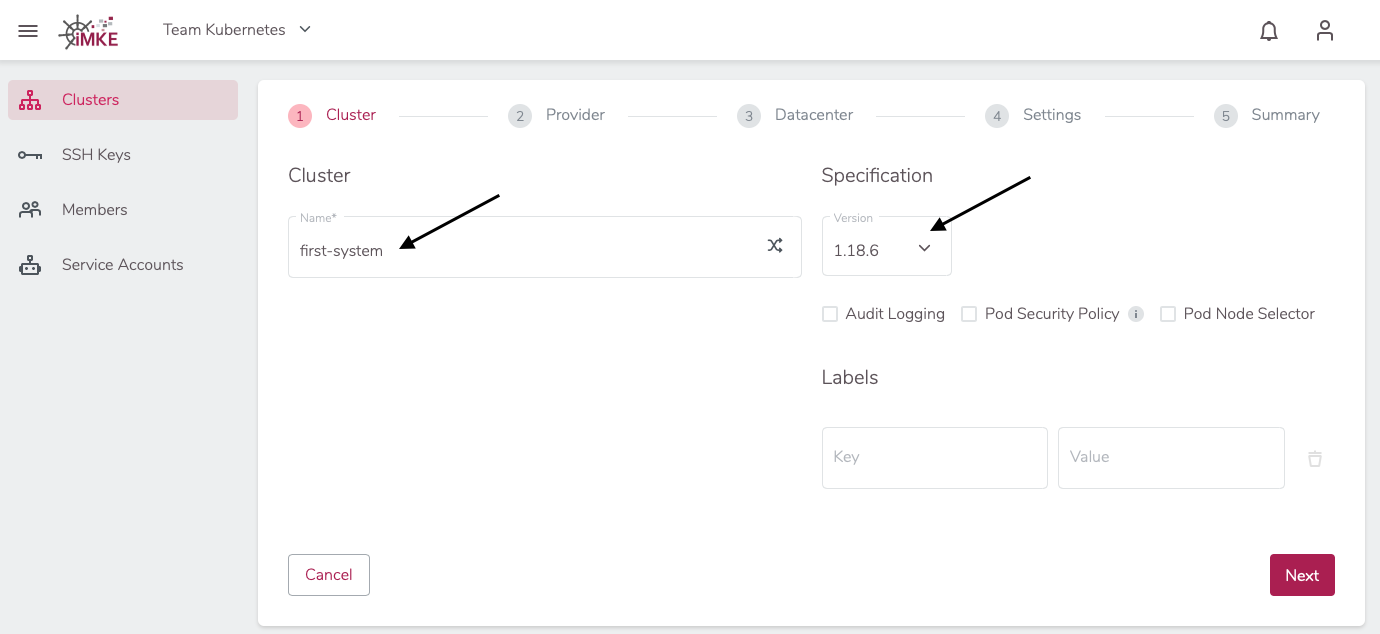
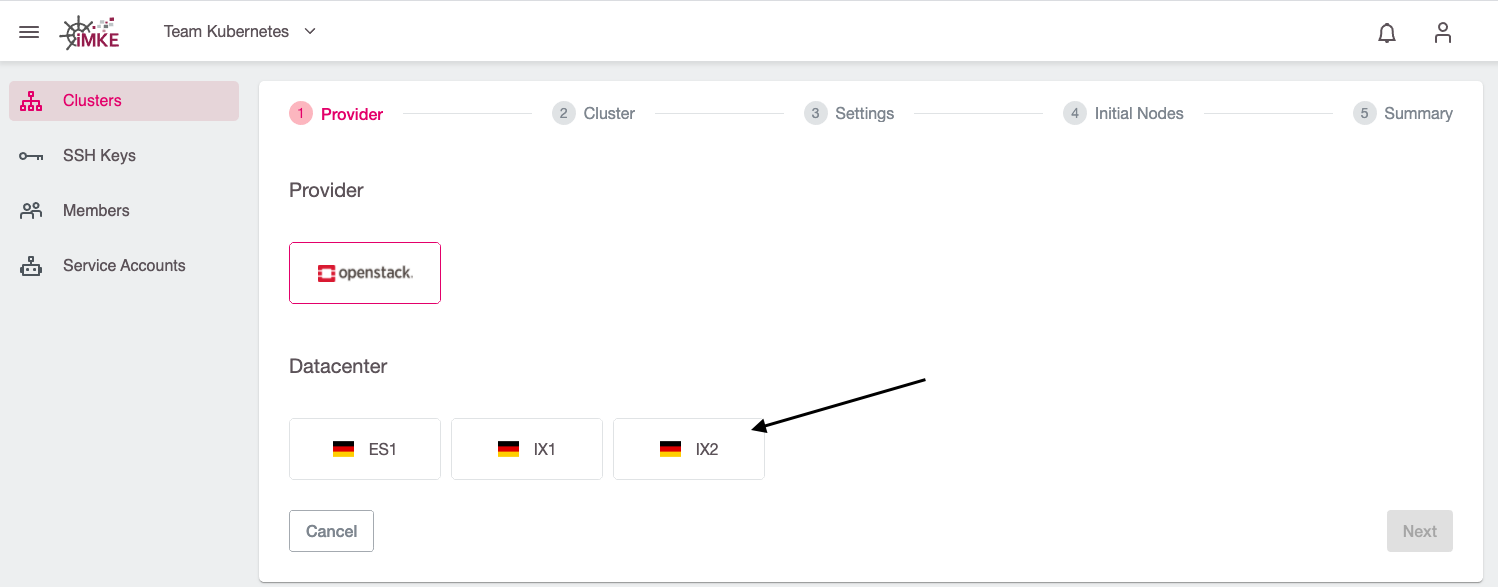
Update cluster-creation documentation (#38)
* Update cluster-creation documentation

* Update docs/_imke/clusterlifecycle/creatingacluster/index.de.md

* Update docs/_imke/clusterlifecycle/creatingacluster/index.de.md

* Apply suggestions from code review

diff --git a/docs/_imke/clusterlifecycle/creatingacluster/index.de.md b/docs/_imke/clusterlifecycle/creatingacluster/index.de.md
@@ -11,68 +11,73 @@ Doch bevor wir dies tun können, benötigen wir ein Projekt.
 
 Wenn Sie noch kein Projekt erstellt haben, [erstellen Sie bitte zuerst ein Projekt](/imke/managingprojects/creatingaproject).
 
-Um einen Cluster anzulegen, klicken wir oben rechts auf `Add Cluster`.
+Um einen Cluster anzulegen, klicken wir im gewünschten Projekt oben rechts auf `Add Cluster`.
 ![Add Cluster](projectview_addcluster.png)
 
 Jetzt öffnet sich die erste Seite für den Prozess, einen Cluster anzulegen.
-Im Beispiel nennen wir unseren Cluster `first-system` und wählen die Kubernetes
-Version 1.18.6 aus:
+Dazu wählen wir den Provider `openstack` und eine der drei Verfügbarkeitszonen aus, in diesem Beispiel
+nehmen wir `IX2`:
 ![Add Cluster Step 1](add_step1.png)
 
-Wir klicken dann auf `Next` und im nächsten Schritt wählen wir den Provider
-`openstack` und eine der drei Verfügbarkeitszonen aus, in diesem Beispiel
-nehmen wir `IX1`:
-![Add Cluster Step 2.1](add_step2_1.png) ![Add Cluster Step 2.2](add_step2_2.png)
+Im nächsten Schritt konfigurieren wir die Cluster-Details. Im unserem Beispiel nennen wir das Cluster `first-system` und
+wählen die gwünschte Kubernetes-Version aus:
+![Add Cluster Step 2](add_step2.png)
 
-Damit iMKe in der OpenStack Plattform die notwendigen Ressourcen erzeugen kann,
-geben wir hier erneut unsere Zugangsdaten ein. Danach wird der Inhalt in `Project`
-automatisch aktualisiert und wir können unser gewünschtes OpenStack Projekt
+Für den gelegentlichen SSH-Zugriff auf Worker-Nodes können wir optional einen öffentlichen SSH-Schlüssel hinterlegen.
+Zum Hinzufügen eines SSH-Keys klicken wir auf `Add SSH Key`:
+![Add Cluster Step 2.2](add_step2_2.png)
+
+In dem sich öffnenden Dialog können wir dann unseren SSH Public Key eintragen
+und ihm einen passenden Namen geben:
+![Add Cluster Step 2.3](add_step2_3.png)
+
+Damit iMKE in der OpenStack-Infrastruktur die notwendigen Ressourcen erzeugen kann,
+geben wir im nächsten Schritt unsere Zugangsdaten ein. Danach wird der Inhalt im Feld `Project`
+automatisch aktualisiert und wir können in der Dropdownliste unser gewünschtes OpenStack Projekt
 auswählen:
 ![Add Cluster Step 3.1](add_step3.png)
 ![Add Cluster Step 3.2](add_step3_2.png)
 
-Man kann ein existierendes Netzwerk verwenden, um den Cluster zu erstellen. Dazu müssen wir das Netzwerk und das Subnetz auswählen.
-Diese müssen mit einem Router verbunden sein.
-Also man soll einen Router erstellen, was auf dem Optimist Dashboard oder aus der OpenStack Kommandozeile durchgeführt werden kann.
-Hierfür kann man die OpenStack Dokumentation nutzen, um den Router zu erstellen und das Netzwerk zu verbinden. (</optimist/guided_tour/step10/>)
+Mit dem Hinzufügen der Credentials und dem Auswählen des OpenStack-Projekts sind alle
+notwendigen Eingaben getätigt, so dass wir mit dem nächsten Schritt fortfahren können. Wenn wir das tun,
+wird automatisch ein eigenes Netzwerk, Subnet sowie eine Security Gruppe für das neue Cluster erstellt.
+
+Es ist allerdings auch möglich, ein existierendes Netzwerk verwenden, um den Cluster zu erstellen.
+Dazu müssen wir das Netzwerk und das Subnetz auswählen. Diese müssen allerdings mit einem Router verbunden sein.
+In unserer [OpenStack Dokumentation](/optimist/guided_tour/step10/) ist beschrieben, wie man einen Router erstellen 
+und mit einem Netzwerk verbinden kann.
 ![Add Cluster Network](create-cluster-network-exist.png)
 
-In den Node Settings konfigurieren wir, wie viele Server später im Kubernetes Cluster
-als Nodes verwendet werden können. Diese Gruppe von Servern braucht einen Namen und
-eine Größe. Für den ersten Cluster sind genaue Namen nicht so wichtig, deswegen benutzen
-wir den Namensgenerator. Die Anzahl und Größe der Server belassen wir auf den
-Standardwerten.
+Im nächsten Schritt definieren wir, wieviele und welche virtuelle Maschinen als Worker-Nodes im Cluster verfügbar
+sein sollen.
+
+Zuerst geben wir dem so genannten `Machine Deployment` einen Namen. Für unser Testcluster nutzen wir dazu den Namensgenerator:
 ![Add Cluster Step 4](add_step4.png)
 
-Als Image entscheiden wir uns für Flatcar Linux. Flatcar Linux ist
-speziell für den Betrieb von Containern gedacht und wird durch iMKE
-automatisch aktualisiert.
+Danach spezifieren wir die `Replicas` (Anzahl der Worker-Nodes im Kubernetes-Cluster) und den `Flavor` (den Maschinentyp), welcher
+im wesentlichen die Anzahl der verfügbaren CPU-Kerne und des RAMs bestimmt:
+![Add Cluster Step 4.2](add_step4_2.png)
+
+Weiterhin wählen wir `Ubuntu` als Betriebssystem für die Worker-Nodes:
+![Add Cluster Step 4.3](add_step4_3.png)
+
+Über einen Klick auf `Next` gelangen wir zum letzten Schritt, wo wir noch einmal alle Einstellungen verifizieren und mittels `Create`
+die Cluster-Erstellung starten können:
 ![Add Cluster Step 5](add_step5.png)
 
-Für den SSH Zugriff müssen wir unseren öffentlichen SSH-Schlüssel hinterlegen sowie "Floating IP" aktivieren. Zum Hinzufügen eines SSH-Keys klicken wir auf `Add SSH Key` und tragen in dem Dialog der sich öffnet unseren SSH Public Key ein
-und geben ihm einen passenden Namen:
-![Add Cluster Step 6](add_step6.png)
-![Add Cluster Step 6.2](add_step6_2.png)
-
-Zum Schluss klicken wir wieder auf `Next` und nachdem wir alle Informationen
-noch einmal geprüft haben auf `Create`.
-![Add Cluster Step 7](add_step7.png)
-
 Nun wird das Cluster erstellt. Um auf die Informationen zugreifen zu können müssen
-wir nun wieder auf die Cluster-Übersicht des Projektes und dort auf unser Cluster
-schicken.
-![Add Cluster Step 8](add_step8.png)
-![Add Cluster Step 8.2](add_step8_2.png)
+wir nun wieder auf die Cluster-Übersicht des Projektes und dort unser Cluster auswählen:
+![Add Cluster Step 6](add_step6.png)
+
+Nach der Auswahl unseres Cluster kommen wir nun auf die Seite mit allen Cluster-Details:
+![Add Cluster Step 6.2](add_step6_2.png)
 
 ## Zusammenfassung
 
 Folgende Schritte wurden erfolgreich durchgeführt und gelernt:
 
-* Was ist ein Projekt in iMKE
-* Wie legt man ein Projekt in iMKE an
 * Was ist ein iMKE Cluster
-* Wie konfiguriert man ein iMKE Cluster
-* Wie startet man ein iMKE Cluster
+* Wie erstellt man ein iMKE Cluster
 
 Herzlichen Glückwunsch! Dies sind alle notwendigen Steps um ein Kubernetes Cluster
 in iMKE anzulegen. Wie dieses verwendet werden kann steht auf den nächsten Seiten.

diff --git a/docs/_imke/clusterlifecycle/creatingacluster/index.en.md b/docs/_imke/clusterlifecycle/creatingacluster/index.en.md
@@ -14,13 +14,21 @@ So if you don't have a project yet, [create a project first](/imke/managingproje
 To create the cluster, we click on `Add Cluster` in the top right corner:
 ![Add Cluster](projectview_addcluster.png)
 
-This opens the first page of the Cluster Creation procedure. In the example,
-we call our Cluster `first-system` and select Kubernetes version 1.18.6:
+This opens the first page of the cluster creation procedure.
+We choose the provider `openstack` and one of the three
+datacenters. In this example, we pick `IX2`:
 ![Add Cluster Step 1](add_step1.png)
 
-Then we click `Next` and choose the provider `openstack` and one of the three
-availability zones. In this example, we pick `IX1`:
-![Add Cluster Step 2.1](add_step2_1.png) ![Add Cluster Step 2.2](add_step2_2.png)
+In the next step, we have to configure the cluster details. In the example,
+we call our Cluster `first-system` and select the desired Kubernetes version:
+![Add Cluster Step 2](add_step2.png)
+
+For occassional SSH access to worker nodes, we need can optionally deploy an SSH Key.
+To add an SSH-Key, we click on `Add SSH key`:
+![Add Cluster Step 2.2](add_step2_2.png)
+
+After that we can add the SSH Public Key and give it a memorable name:
+![Add Cluster Step 2.3](add_step2_3.png)
 
 To allow iMKE to request the required resources from OpenStack, we add our
 OpenStack credentials now. After that, the contents of `Project` is refreshed
@@ -29,44 +37,45 @@ in:
 ![Add Cluster Step 3.1](add_step3.png)
 ![Add Cluster Step 3.2](add_step3_2.png)
 
-We can use an existing network to create the cluster. At this point, we must select the network and the subnet.
-Those must be attached to a router.
-So you have to create a router, this can be done from the Optimist Dashboard or from the OpenStack command line.
-We can use our OpenStack documentation to create the router and attach it. (</optimist/guided_tour/step10/>)
+By adding the credentials and selecting the OpenStack project, we could proceed to the next
+step. If we do so, a new and dedicated network, subnet and security group will be created for the cluster
+automatically.
+
+It is also possible to use an **existing** network to create the cluster. For this to work, we have to select
+the network and the subnet from the dropdown menu. Those must be attached to a router.
+Creating a router can be done from the Optimist Dashboard or from the OpenStack command line.
+Please refer to our [OpenStack documentation](/optimist/guided_tour/step10/) for details how to create the router and attach it.
 ![Add Cluster Network](create-cluster-network-exist.png)
 
-In Node Settings we define how many virtual machines will be available as worker nodes
-in the cluster. This node deployment needs a name and a size. For the first cluster
-the name is not super important, so we use the random name generator. We use the
-defaults for the number and size of the machines.
+In the next step, we define how many and what kind of virtual machines will be initially available as worker nodes
+in the cluster.
+
+First, this so called `Machine Deployment` needs a name. For our test cluster we use the random name generator:
 ![Add Cluster Step 4](add_step4.png)
 
-We choose Flatcar Linux as the image. Flatcar Linux is designed to run containers
-and will automatically be updated by iMKE.
-![Add Cluster Step 5](add_step5.png)
+Next, we should specify the `Replicas` (number of worker nodes in your Kubernetes cluster) and the `Flavor` (machine type), which 
+defines the amount of CPU and RAM for each worker node:
+![Add Cluster Step 4.2](add_step4_2.png)
 
-For occassional SSH access, we need to deploy an SSH Key and to assign a Floating IP to each Worker-Node.
-To add an SSH-Key, we click on `Add SSH Key`, enter an SSH Public Key, and give it a memorable name:
-![Add Cluster Step 6](add_step6.png)
-![Add Cluster Step 6.2](add_step6_2.png)
+We choose `Ubuntu` as the operating system for the worker nodes:
+![Add Cluster Step 4.3](add_step4_3.png)
 
 To finish, we click on `Next`. After we verified all settings, we click on `Create`.
-![Add Cluster Step 7](add_step7.png)
+![Add Cluster Step 5](add_step5.png)
 
 Now the cluster is being created. To access the information, we return to the Cluster
-view of the project and click our Cluster's name.
-![Add Cluster Step 8](add_step8.png)
-![Add Cluster Step 8.2](add_step8_2.png)
+view of the project and click our Cluster's name:
+![Add Cluster Step 6](add_step6.png)
+
+This will open a page with all cluster details:
+![Add Cluster Step 6.2](add_step6_2.png)
 
 ## Summary
 
 In this guide, we achieved and learnt the following:
 
-* What is an iMKE Project
-* How to create an iMKE Project
 * What is an iMKE Cluster
-* How to configure an iMKE Cluster
-* How to start an iMKE Cluster
+* How to create an iMKE Cluster
 
 Congratulations! Now you know how to create a Kubernetes Cluster with iMKE.
 The following pages describe cluster usage examples.
